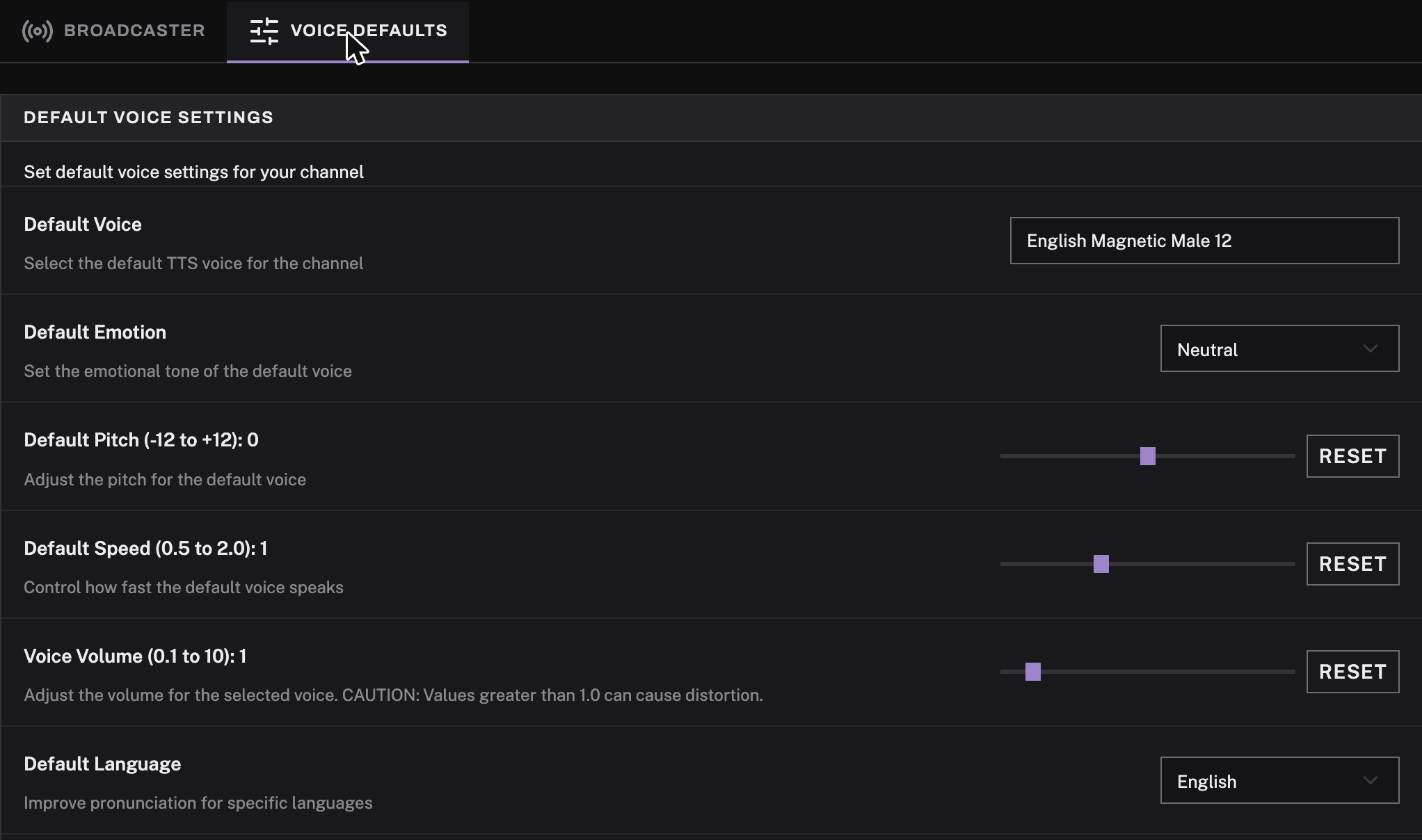
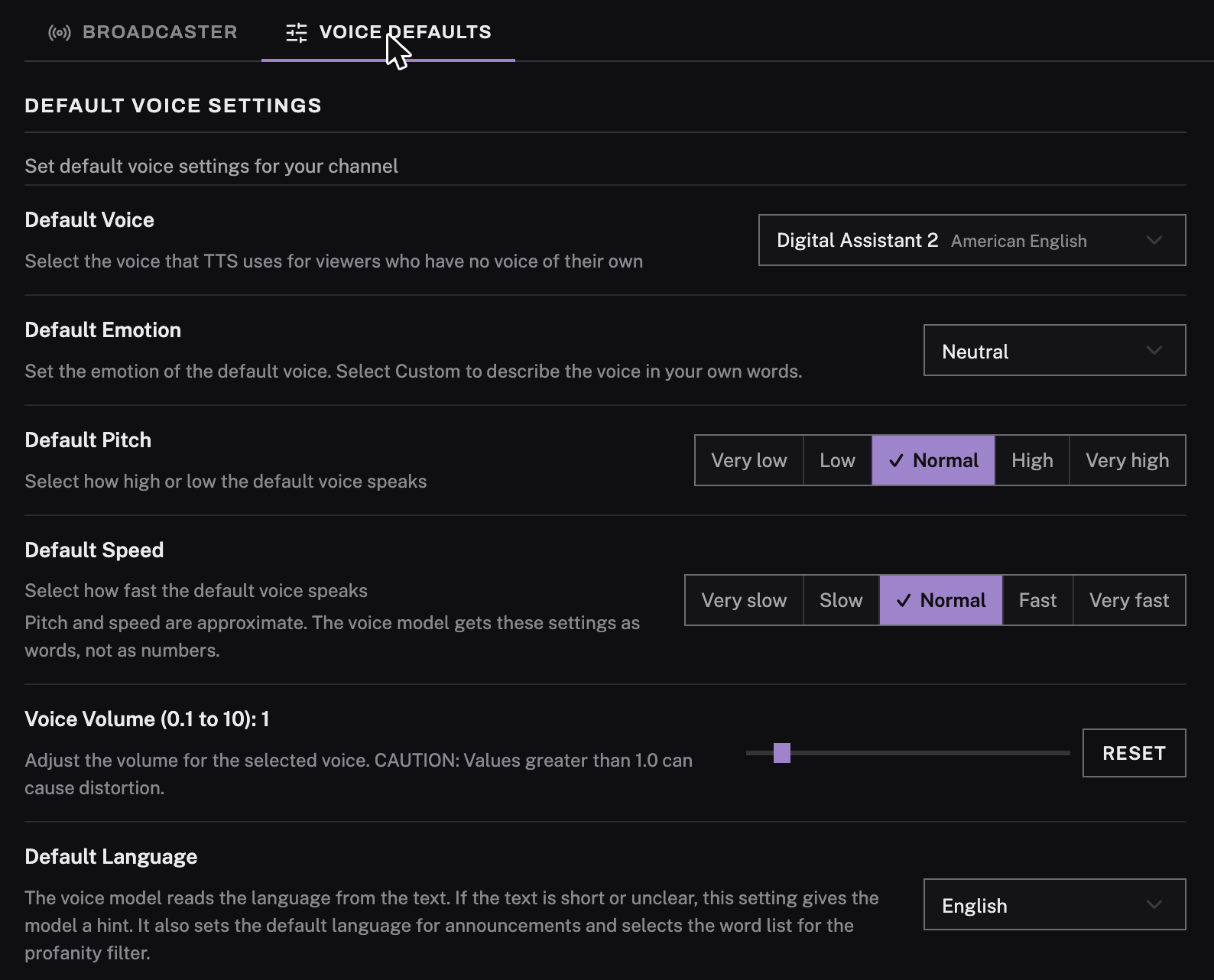
docs: update tts voice guide text and screenshots

diff --git a/src/blog/posts/getting-started-with-wildcattts.md b/src/blog/posts/getting-started-with-wildcattts.md
@@ -102,11 +102,11 @@ The channel point reward works in every mode, so you can run All Messages or Com
 
 ## 5. Pick a Voice
 
-The **Voice Defaults** tab sets the voice your channel uses. There are 2,114 to choose from. Thirty are studio voices that speak every language, and the rest are individual speakers, each with a language, an accent, and a short description. Open the voice list and type a few words, such as `german calm low`, to search those descriptions. Each voice has a play button next to it so you can hear a sample before committing. The default is "Puck". Emotion is there too, or you can pick **Custom…** and write a speaking style in your own words. Pitch and speed are five steps each, from very slow to very fast and from very low to very high. Type something into the **Voice preview** card on the right and click **Send preview** to hear the result with your current settings; that preview plays in your browser, not through OBS.
+The **Voice Defaults** tab sets the voice your channel uses. There are 2,114 to choose from. Thirty of them speak every language (they carry an **Every language** tag), and the rest are individual speakers, each with a language, an accent, and a short description. Open the voice list and type a few words, such as `german calm low`, to search those descriptions. Each voice has a play button next to it so you can hear a sample before committing. The default is "Puck". Emotion is there too, or you can pick **Custom…** and write a speaking style in your own words. Pitch and speed are five steps each, from very slow to very fast and from very low to very high. Type something into the **Voice preview** card on the right and click **Send preview** to hear the result with your current settings; that preview plays in your browser, not through OBS.
 
-![The Voice Defaults tab. Rows for Default Voice, Default Emotion set to Neutral, sliders for Default Pitch, Default Speed and Voice Volume each with a Reset button, and Default Language set to English.](/assets/images/tts-voice-defaults.png)
+![The Voice Defaults tab. Rows for Default Voice set to Digital Assistant 2, Default Emotion set to Neutral, Default Pitch and Default Speed as five buttons each with Normal selected, a Voice Volume slider with a Reset button, and Default Language set to English.](/assets/images/tts-voice-defaults.png)
 
-![The Default Voice picker open, listing voices such as English Expressive Narrator, English Radiant Girl and English Aussie Bloke, each with a purple play button to its right.](/assets/images/tts-voice-picker.png)
+![The Default Voice picker open. At the top are a search box, filters for language, gender and pitch, and a checkbox labeled Only voices that speak every language. Below, 2,114 voices are listed, such as Digital Assistant 2, Achernar and Achird, each with a description, tags, and a purple play button to its right.](/assets/images/tts-voice-picker.png)
 
 Viewers can pick their own voice. Typing `!myvoice` in chat gives them a link to the viewer settings page with your channel loaded. There they can choose a voice, a speaking style, pitch, speed, and language that follows them across channels. They can also manage channel opt-outs on that page. If you'd rather everyone sound the same, turn off **Allow Viewer Voice Preferences**.
 
